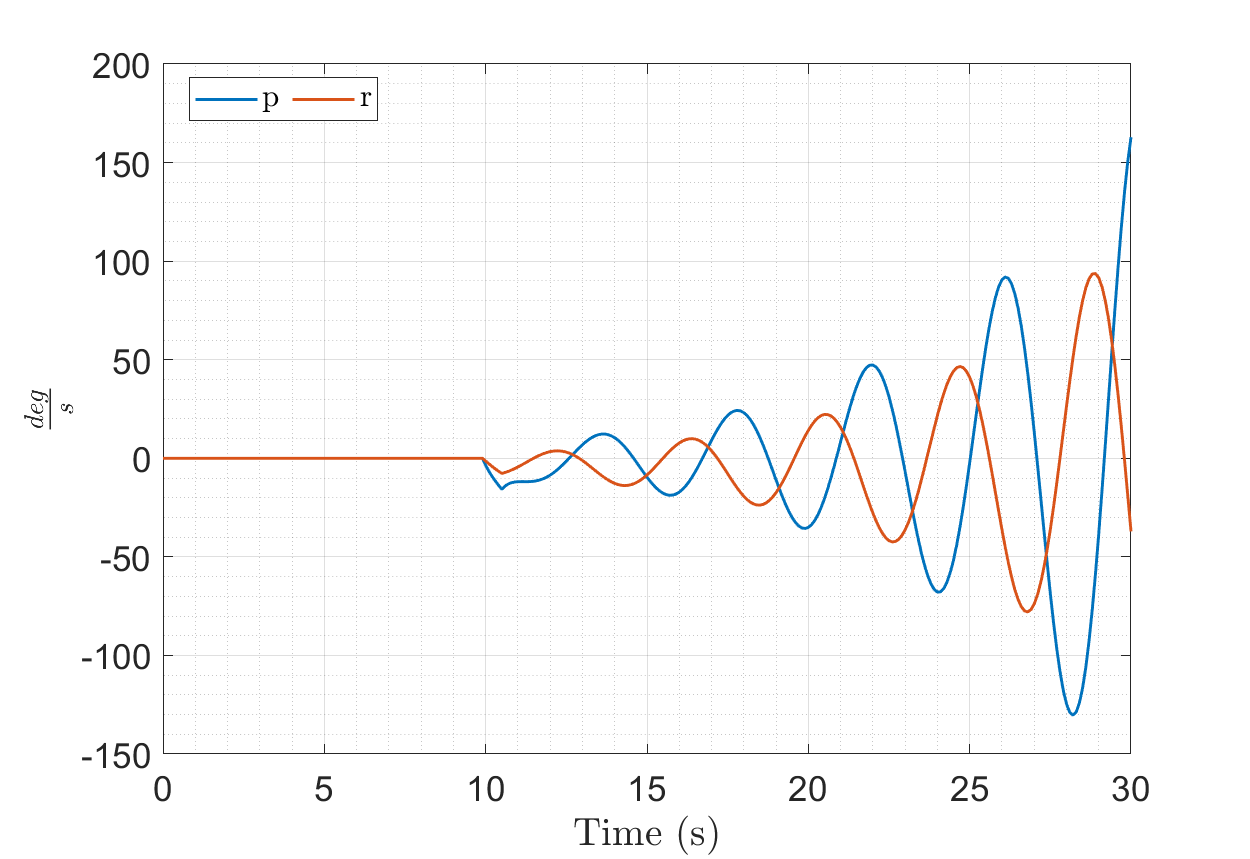
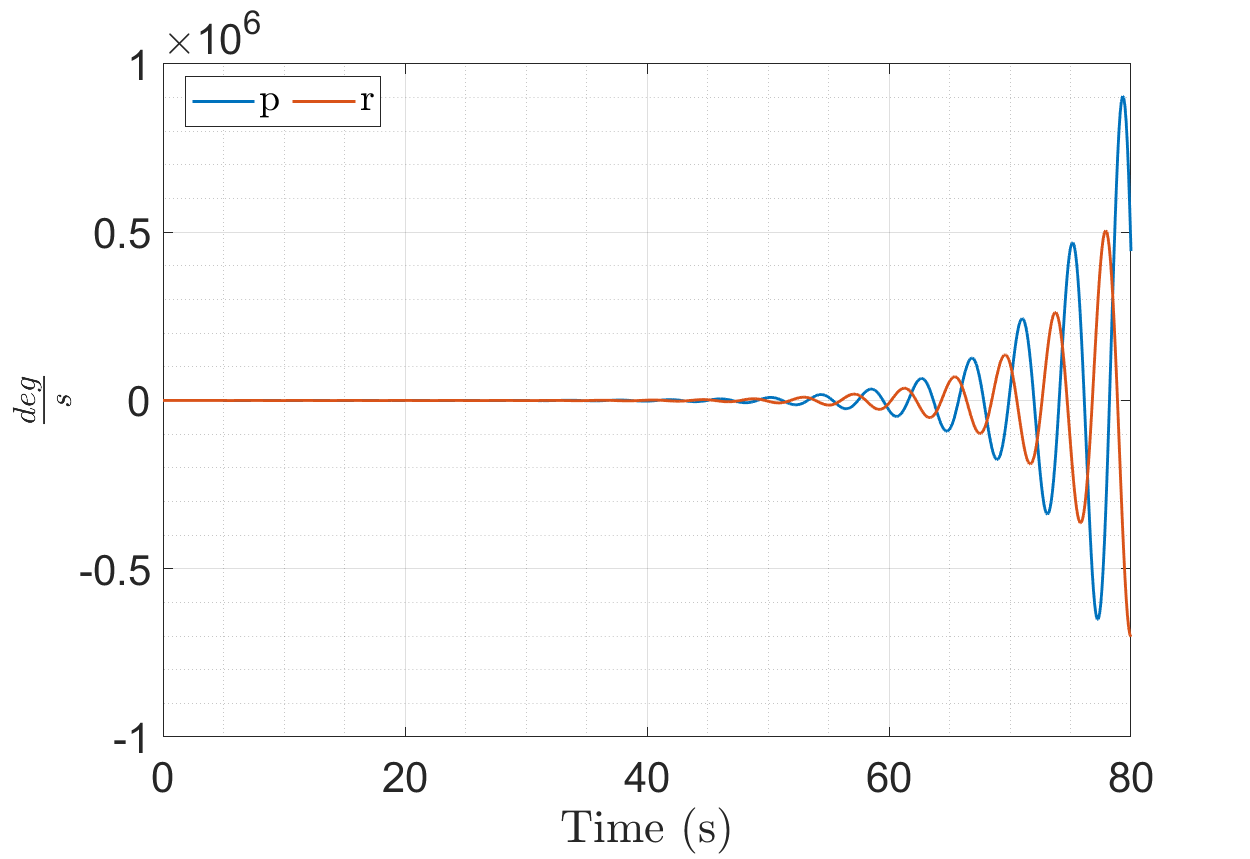
part c update

diff --git a/Part C/PartC.m b/Part C/PartC.m
@@ -5,10 +5,10 @@ clear all
 %% Default plot parameters
 
 alw           = 1;                      % AxesLineWidth
-fsz           = 17;                     % Fontsize
+fsz           = 20;                     % Fontsize
 lw            = 1.4;                    % LineWidth
 msz           = 5;                      % MarkerSize
-leg_s         = 15;                     % Legend size
+leg_s         = 18;                     % Legend size
 set(0,'defaultLineLineWidth',lw);       % set the default line width to lw
 set(0,'defaultLineMarkerSize',msz);     % set the default line marker size to msz
 set(0,'defaultLineLineWidth',lw);       % set the default line width to lw
@@ -28,6 +28,9 @@ addpath('../sim')
 mat1 = load('Longitudinal_Matrices_PC9_nominalCG1_100Kn_1000ft.mat');
 mat2 = load('Longitudinal_Matrices_PC9_nominalCG1_180Kn_1000ft.mat');
 mat3 = load('Longitudinal_Matrices_PC9_CG2_100Kn_1000ft.mat');
+X1 = load('ICs_PC9_nominalCG1_100Kn_1000ft.mat');
+X2 = load('ICs_PC9_nominalCG1_180Kn_1000ft.mat');
+X3 = load('ICs_PC9_CG2_100Kn_1000ft.mat');
 
 plotting = false; % Boolean for whether you want to plot or not
 
@@ -71,10 +74,16 @@ for cg = ["CG1", "CG2"]
         
         if cg == "CG1" && speed == 100
             lon = mat1;
+            att_eul = q2e(X1.X0(7:10)/norm(X1.X0(7:10)));
+            theta = att_eul(2);
         elseif cg == "CG1" && speed == 180
             lon = mat2;
+            att_eul = q2e(X2.X0(7:10)/norm(X2.X0(7:10)));
+            theta = att_eul(2);
         else
             lon = mat3;
+            att_eul = q2e(X3.X0(7:10)/norm(X3.X0(7:10)));
+            theta = att_eul(2);
         end
         
         % alt 1000ft
@@ -136,7 +145,7 @@ for cg = ["CG1", "CG2"]
         % 8B
         
         u1 = V; % delta_T
-        theta1 = 0;    % DOUBLE CHECK
+        theta1 = theta;    % DOUBLE CHECK
         A1 = Ixz/Ixx;
         B1 = Ixz/Izz;
         
@@ -271,7 +280,8 @@ for cg = ["CG1", "CG2"]
         % deg
             
         % Conditions for Euler Integration
-        T = 30;
+        T = 80;
+        time_def = 5; % Time at which 0.5 second deflection occurs
         dT = 0.1;
         Steps = T/dT;
         
@@ -292,7 +302,7 @@ for cg = ["CG1", "CG2"]
             
             time = i*dT;
             
-            if time >= 10 && time <= 10.5
+            if time >= time_def && time <= time_def + 0.5
                 Xdot_lon = A_lon*X_lon(:,i) + B_lon*def;
                 Xdot_lat = A_lat*X_lat(:,i) + B_lat*def;
             else

diff --git a/Part C/q2e_max.m b/Part C/q2e_max.m
@@ -1,0 +1,22 @@
+function eulerangles = q2e_max(quaternions)
+
+% Normalising the quaternions
+norm = (quaternions(1,:).^2 + quaternions(2,:).^2 + quaternions(3,:).^2 + quaternions(4,:).^2).^0.5;
+% Converting Quaternions to Euler Angles
+% Quaternion inputs
+for i = 1:length(norm)
+    q0 = quaternions(1,:)/norm(i);
+    q1 = quaternions(2,:)/norm(i);
+    q2 = quaternions(3,:)/norm(i);
+    q3 = quaternions(4,:)/norm(i);
+end
+
+% Converting quaternion inputs to corresponding Euler Angles
+phi = atan2((q2.*q3 + q0.*q1),(q0.^2 + q3.^2 - 0.5));
+theta = atan2((q0.*q2 - q1.*q3),sqrt((q0.^2 + q1.^2 - 0.5).^2 + (q1.*q2 + q0.*q3).^2));
+psi = atan2((q1.*q2 + q0.*q3),(q0.^2 + q1.^2 - 0.5));
+
+% Outputing Euler Angles in degrees
+eulerangles = rad2deg([phi ; theta ; psi]);
+
+end

diff --git a/Part C/q2e.m b/Part C/q2e.m
@@ -1,0 +1,19 @@
+function eulers = q2e(q)   
+    % in: 4xn quaternions
+    % out: 3xn eulers (rads)
+
+%     % normalise quaternions
+%     q = q./sqrt(sum(q.^2,1));
+    
+    q_0 = q(1,:);
+    q_1 = q(2,:);
+    q_2 = q(3,:);
+    q_3 = q(4,:);
+    
+    eulers = [
+        atan2(2.*(q_0.*q_1+q_2.*q_3),1-2.*(q_1.^2+q_2.^2));
+        asin(2.*(q_0.*q_2-q_3.*q_1));
+        atan2(2.*(q_0.*q_3+q_1.*q_2),1-2.*(q_2.^2+q_3.^2));
+    ];
+
+end
